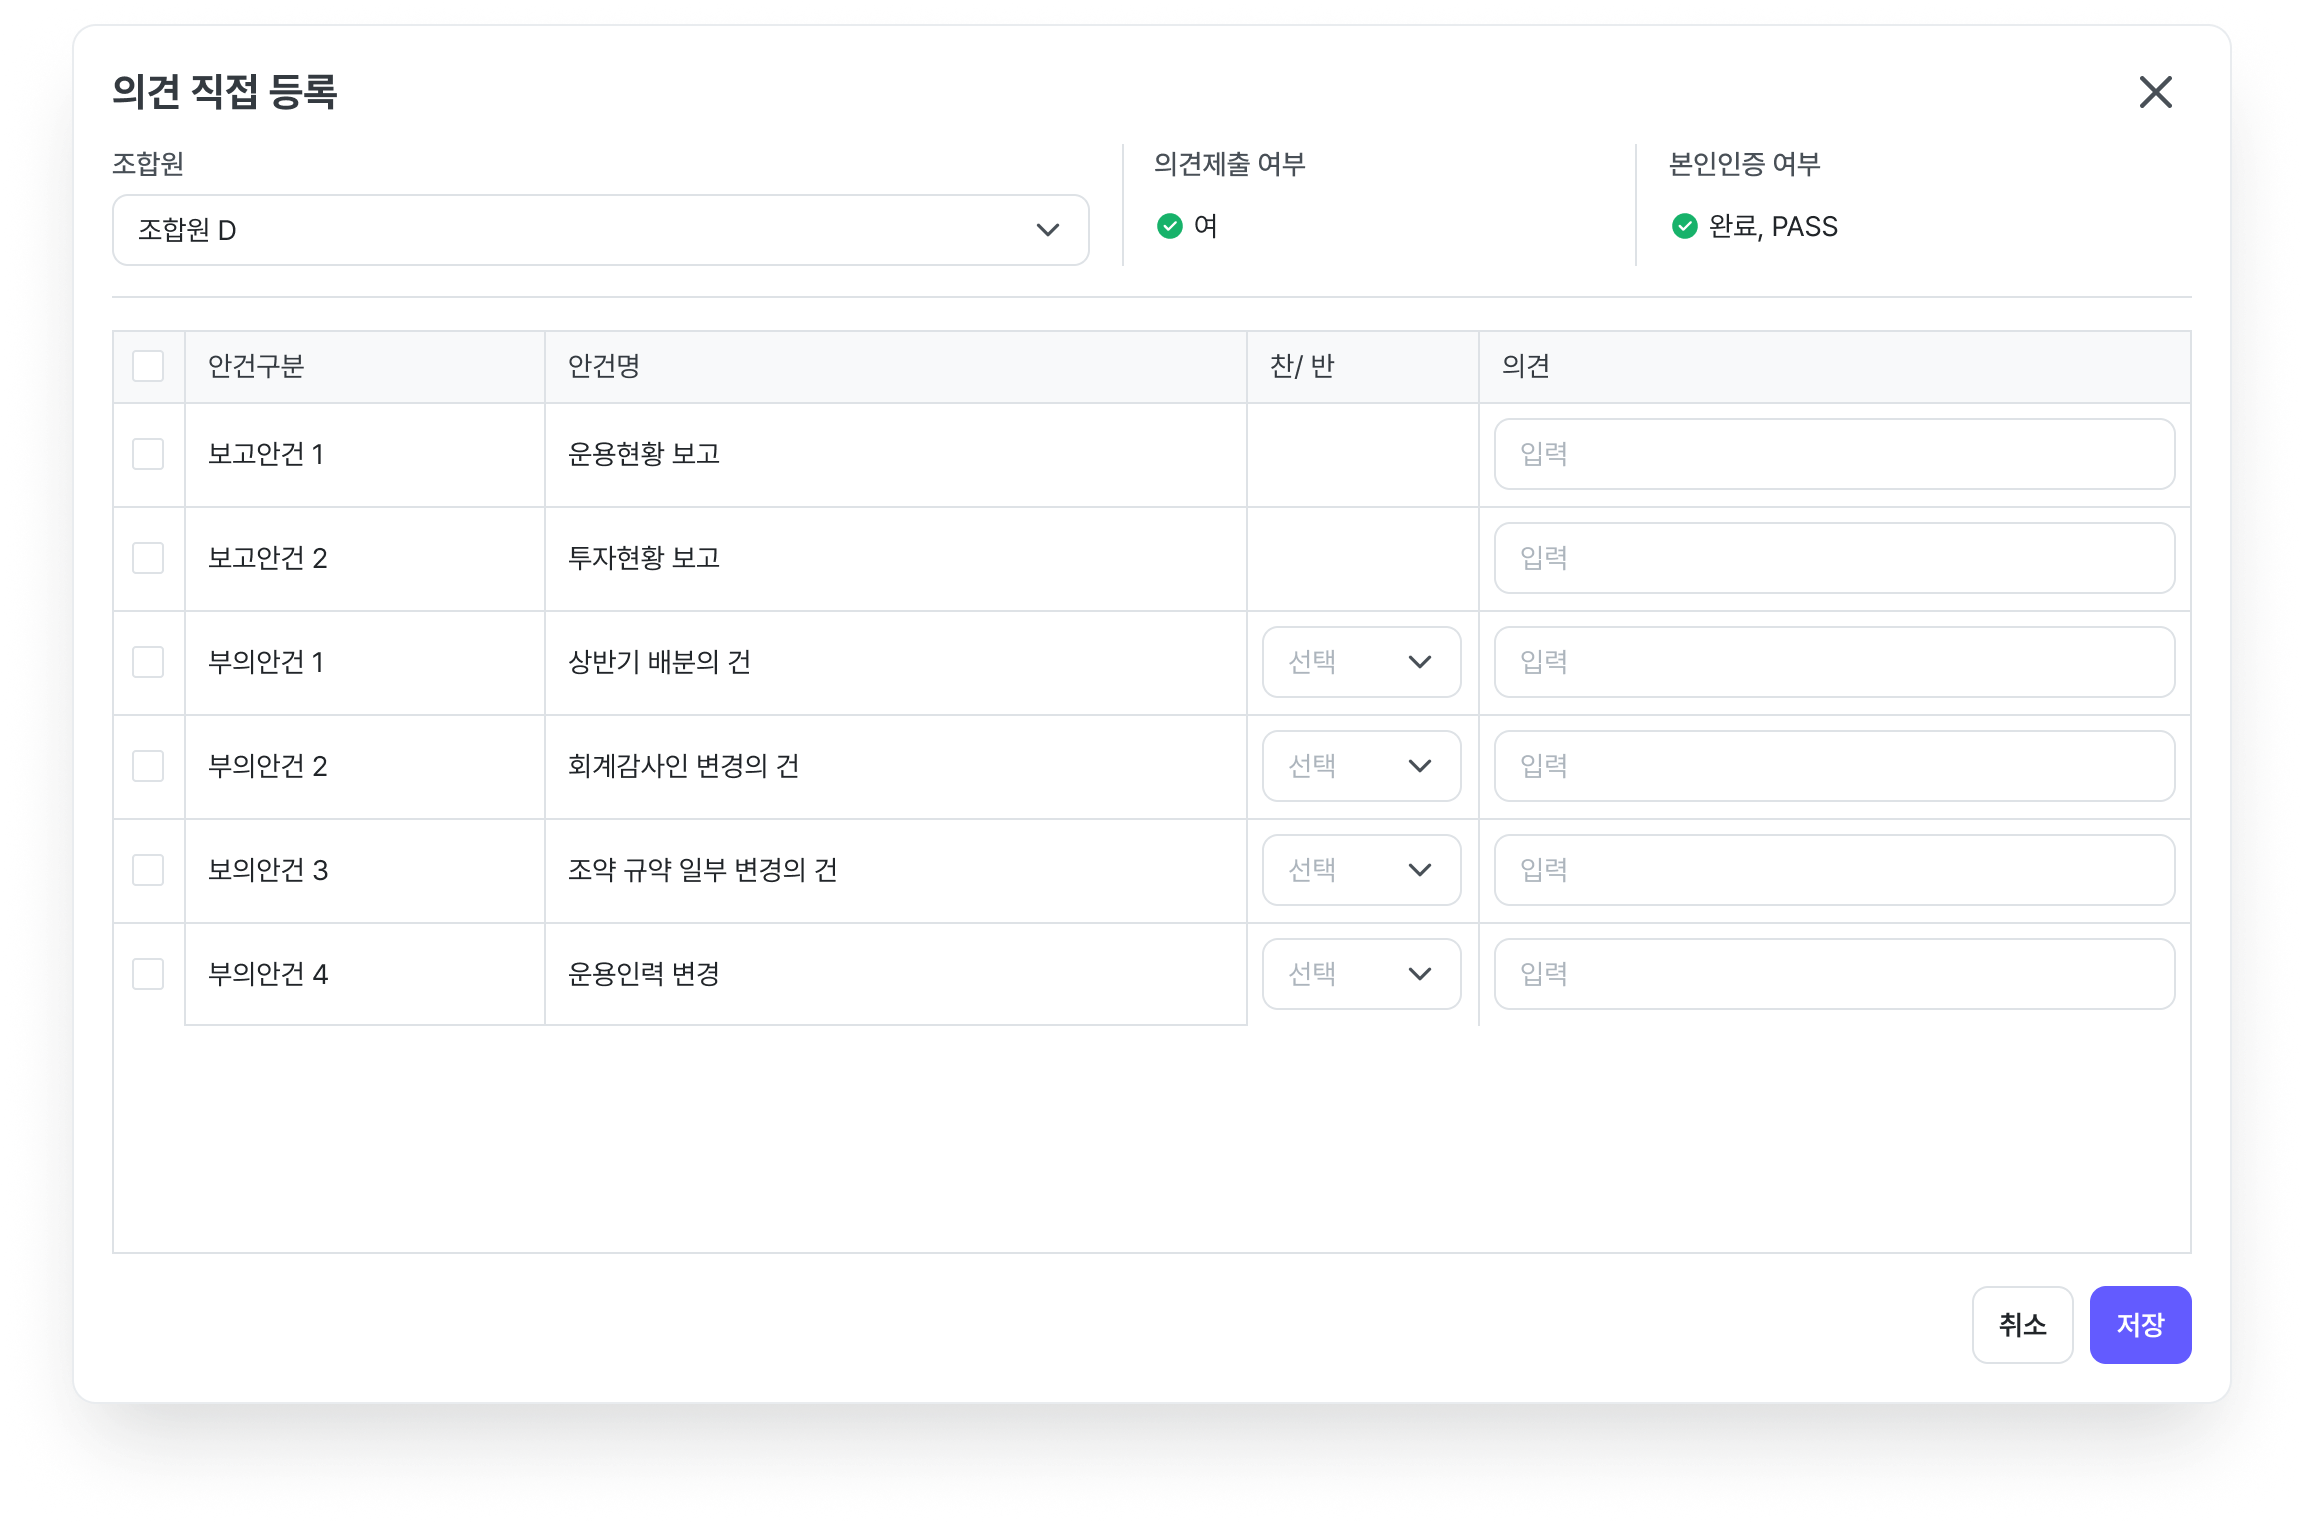
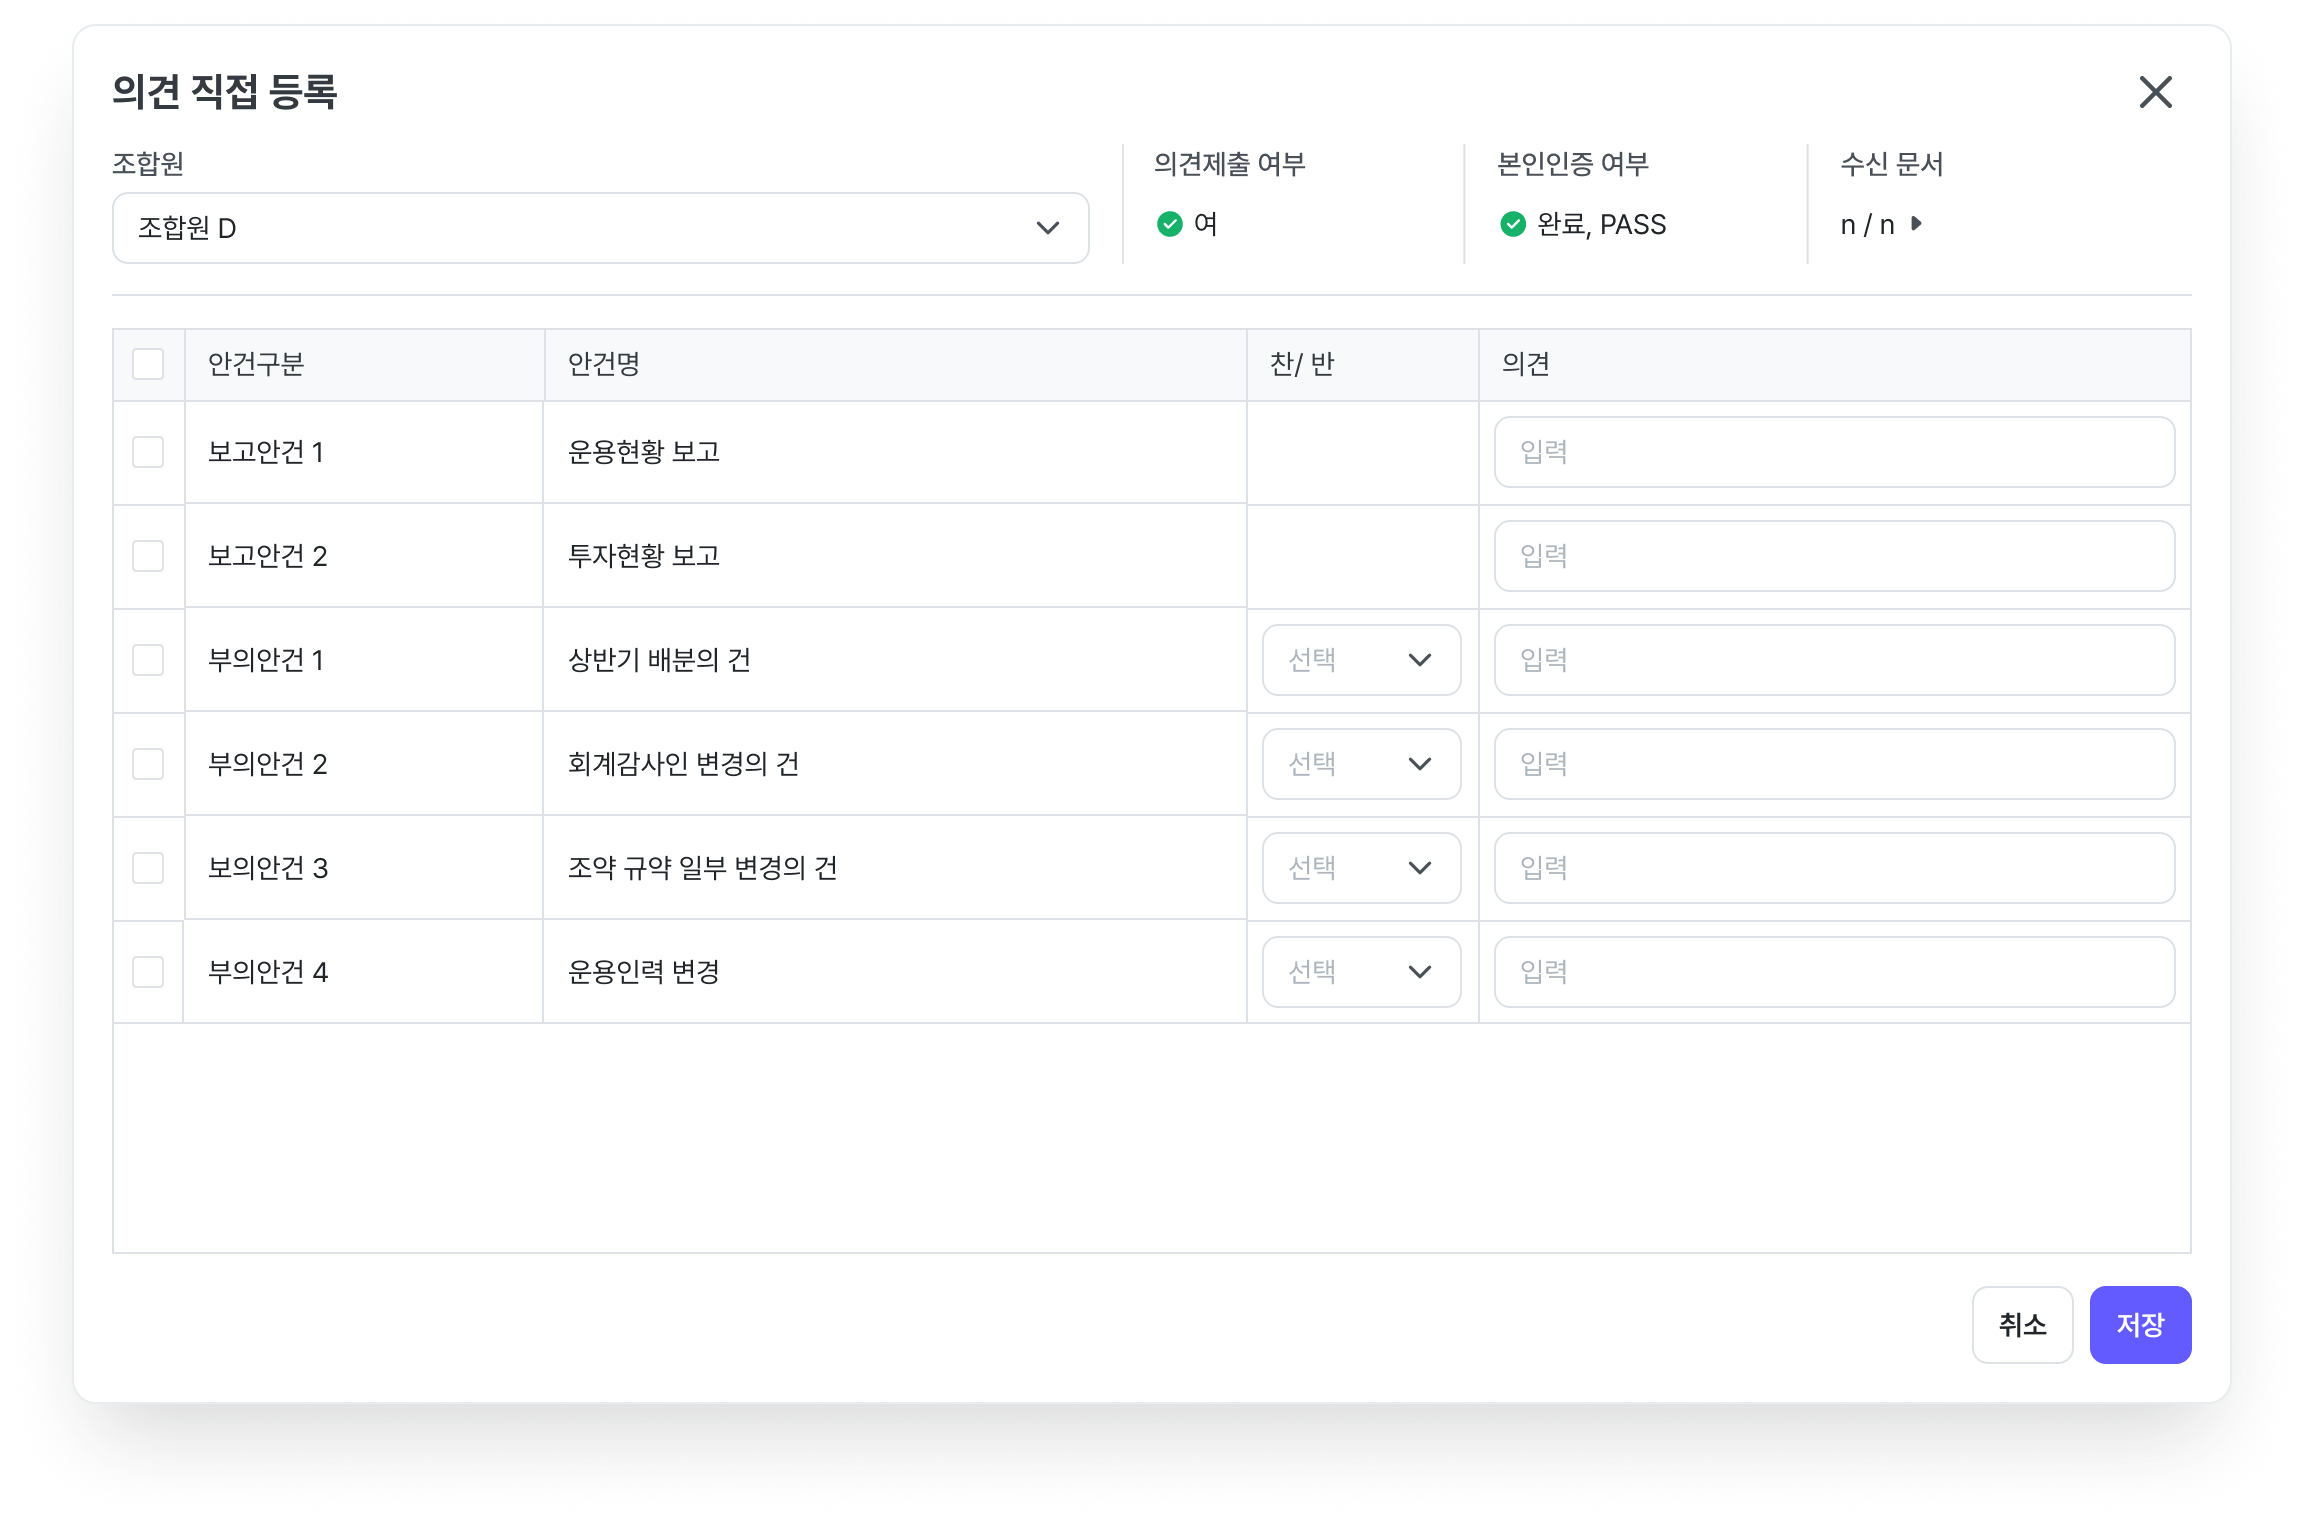
commit

diff --git a/_posts/2025-10-17-fd0032.md b/_posts/2025-10-17-fd0032.md
@@ -55,6 +55,7 @@ mermaid:
   
 - **투표 내역 차트**  
 - 조합원의 **출자 비율 기준**으로 결과 표시  
+	- 출자 비율은 **잔여 출자 좌수**를 기준으로 계산
 - 찬성 / 반대 / 기권 / 미응답 비율 확인  
   
 - **조합원 응답 현황**  
@@ -71,7 +72,8 @@ mermaid:
 1. 화면 상단 **[의견 직접등록] 버튼** 클릭  
 2. 의견 직접등록 모달에서 **조합원 선택**  
 3. 안건별 **찬성 / 반대 / 기권 및 의견 입력**  
-4. **[저장] 버튼 클릭**  
+4. **서면결의서** 등 첨부파일 첨부
+5. **[저장] 버튼 클릭**  
 
 #### 의견 직접등록 화면 구성  
 ![](assets/img/ansmodal.png)  
@@ -82,6 +84,7 @@ mermaid:
 | 조합원     | 의견을 등록할 조합원 선택                   |
 | 의견제출 여부 | 해당 조합원이 LPworks를 통해 의견을 제출했는지 여부 |
 | 본인인증 여부 | 조합원이 본인 인증을 완료했는지 여부             |
+| 수신문서    | 조합원이 제출한 문서                      |
   
 조합원이 이미 시스템을 통해 응답했는지 확인할 수 있습니다.  
   
@@ -100,6 +103,7 @@ mermaid:
 - 조합원이 **LPworks 또는 비회원 링크로 이미 의견을 제출한 경우** 해당 내용은 **VCworks에서 수정할 수 없습니다.**  
 - 직접 등록한 의견은 **필요 시 다시 수정할 수 있습니다.**  
 - 의견 직접등록은 **조합원의 회신을 대신 기록하기 위한 기능**이며, 수신문서 탭의 회신 여부와는 별개로 관리됩니다.
+	- 다만, 첨부파일은 수신 문서 탭과 공유됩니다.
   
 ---  
   

diff --git a/_posts/2025-10-18-fd0033.md b/_posts/2025-10-18-fd0033.md
@@ -32,6 +32,7 @@ mermaid:
   
 - 총회 대상 조합원 목록 표시  
 - 하단 합계 영역에서 전체 조합원 수 및 출자좌수 합계 확인 가능  
+- 출자 좌수는 **잔여 출자 좌수** 기준
   
 ---  
   
@@ -54,7 +55,7 @@ mermaid:
   
 수신문서 영역은 **총회 등록 시 선택한 회신문서 유형에 따라 동적으로 생성**됩니다.  
   
-예를 들어 총회 등록 시 다음 문서를 선택한 경우  
+예를 들어 총회 등록 시 다음 문서를 회신필요로 선택한 경우  
   
 - 서면결의서  
 - 인감증명서  
@@ -62,9 +63,6 @@ mermaid:
 - 기타자료 동의서  
   
 수신문서 탭의 표에도 동일한 이름의 **열이 생성됩니다.**  
-  
-| 서면결의서 | 인감증명서 | 위임장 | 기타자료 동의서 |
-| ----- | ----- | --- | -------- |
   
 ---  
   

diff --git a/_posts/2025-10-15-fd0029.md b/_posts/2025-10-15-fd0029.md
@@ -56,7 +56,9 @@ mermaid:
 - 안건명  
 - 안건 유형  
 - 결의 방법  
-- 결의 결과 (가결 / 부결 / 조건부 가결)  
+- 결의 결과 (가결 / 부결 / 조건부 가결) 
+- 찬성 좌수
+- 찬성률률
   
 안건을 클릭하면 조합원총회 상세 화면으로 이동합니다.  
   

diff --git a/_posts/2025-10-16-fd0031.md b/_posts/2025-10-16-fd0031.md
@@ -130,6 +130,8 @@ mermaid:
 응답하지 않은 조합원에게 총회 참여를 다시 안내할 수 있습니다.  
 이를 통해 총회 응답률을 높일 수 있습니다.  
 
+표결하지 않은 조합원만 목록에 표시됩니다.
+
 **철회**  
   
 총회 안내를 철회할 수 있습니다. 철회하면 LPworks에서 총회가 취소되며, 내용을 조회할 수 없습니다.